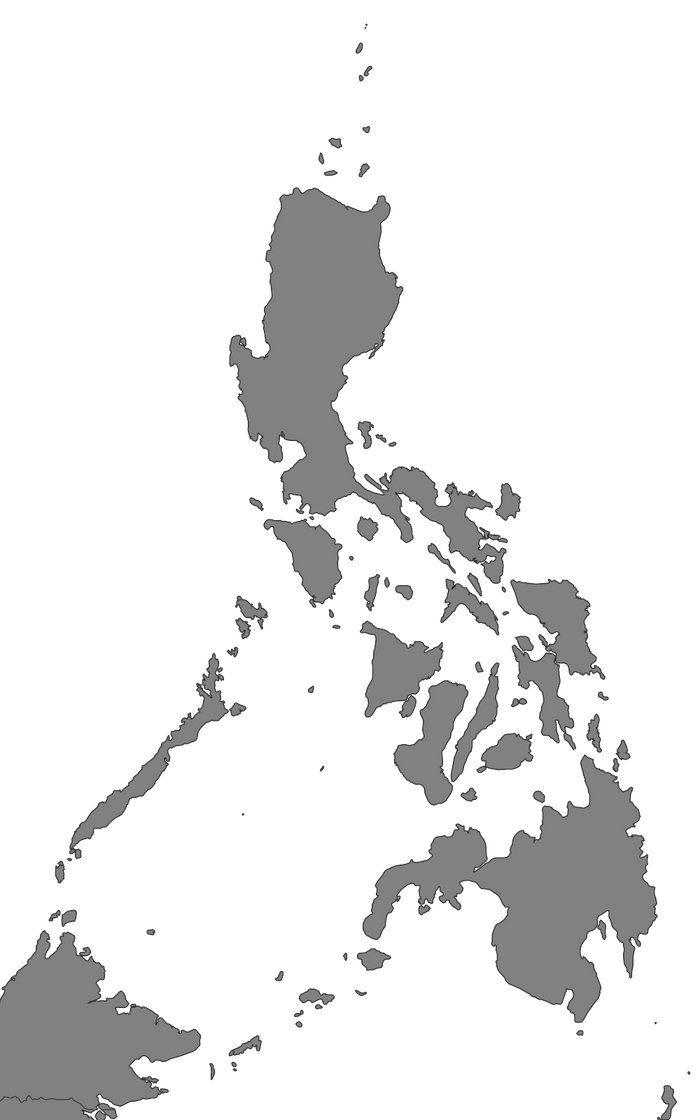
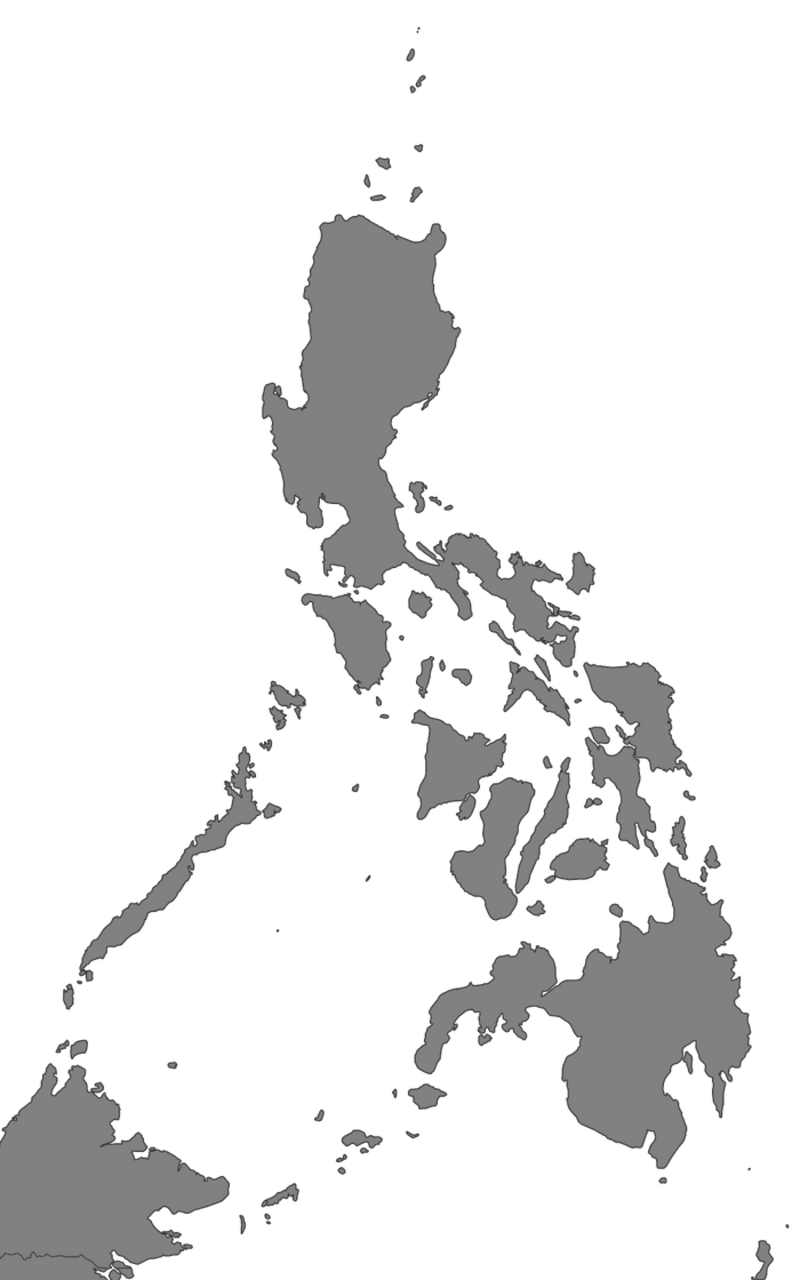
Add files via upload

diff --git a/styles.css b/styles.css
@@ -96,6 +96,7 @@
         left: -9999px;
         position: absolute;
     }
+
     .third-page {
         top: -9999px;
         /* Move off-screen */
@@ -172,39 +173,6 @@
         height: 11vw;
         margin-bottom: 10px;
     }
-
-    .topbar .search-container {
-        width: 20vw;
-        height: 2vw;
-        position: relative;
-        border: 0.15vw solid #fff;
-        margin-left: 15%;
-        border-radius: 360px;
-        background-color: transparent;
-        justify-content: start;
-        overflow: hidden;
-        display: flex;
-        align-items: center;
-
-    }
-
-    .topbar .search-container img {
-        margin-left: 2%;
-        width: 2vw;
-        height: 2vw;
-    }
-
-    .topbar .search-container input[type="text"] {
-        width: calc(100vw - 40px);
-        padding-left: 3%;
-        border: none;
-        outline: none;
-        background-color: transparent;
-        font-size: 1vw;
-        color: white;
-        border-radius: 20px;
-    }
-
 
     .first-page .roger {
         z-index: 1;
@@ -289,12 +257,14 @@
         color: #FFF;
     }
 
-    .first-page .signup {
+    .first-page .visitpage {
         animation: fade-in-left 1.5s ease;
+        font-family: 'Helvetica World', Arial, sans-serif;
         background-color: #FEC64D;
         position: absolute;
         right: 5%;
-        font-size: 1.2vw;
+        font-size: 1.8vw;
+        font-weight: bold;
         color: #FFF;
         width: 15vw;
         height: 5vw;
@@ -302,7 +272,7 @@
         bottom: 15%;
     }
 
-    .first-page .signup-p {
+    .first-page .visit-p {
         color: #FFF;
         font-family: 'Arsenal', sans-serif;
         position: absolute;
@@ -483,6 +453,7 @@
         font-family: 'Barlow Condensed', sans-serif;
         color: #F9A72C;
     }
+
     .third-page #title-view p {
         position: absolute;
         z-index: 2;
@@ -493,7 +464,7 @@
         color: #FFF;
     }
 
- 
+
     .third-page .esmeralda {
         z-index: 1;
         left: -28vw;
@@ -510,7 +481,8 @@
         width: 100%;
         height: 35vw;
     }
-        .third-page #title-view {
+
+    .third-page #title-view {
         z-index: 1;
         color: #FFF;
         position: relative;
@@ -522,6 +494,47 @@
         align-content: center;
         justify-content: center;
         overflow: hidden;
+    }
+
+    .third-page .map-view {
+        width: 39.5%;
+        height: 100%;
+        background-color: #242323;
+        background-image: url('./thirdpage/map.png');
+        background-size: 90%;
+        background-repeat: no-repeat;
+    }
+    .third-page .luzon {
+        width: 0%;
+        height: 0%;
+        position: relative;
+        background-image: url('./thirdpage/luzon.png');
+        background-size: 97%;
+        top: -25px;
+        left: -17px;
+        background-repeat: no-repeat;
+    }
+    .third-page .visayas {
+        width: 0%;
+        height: 0%;
+        position: relative;
+        background-image: url('./thirdpage/visayas.png');
+        background-size: 97%;
+        top: -25px;
+        left: -17px;
+        background-repeat: no-repeat;
+    }
+
+    .third-page .mindanao {
+        width: 100%;
+        height: 100%;
+        position: relative;
+        padding-bottom: 20px;
+        background-image: url('./thirdpage/mindanao.png');
+        background-size: 95%;
+        top: -10px;
+        left: -11px;
+        background-repeat: no-repeat;
     }
 
     .fourth-page {
@@ -543,11 +556,12 @@
         height: 100%;
         display: flex;
         overflow: hidden;
-        flex-direction:column;
+        flex-direction: column;
     }
 
     .fourth-page .yellow-line {
         width: .5%;
+        z-index: 1;
         height: 100%;
         background-image: url('./fourthpage/border-vertical.png');
     }
@@ -561,8 +575,8 @@
         left: 0;
         height: 100%;
         font-weight: bold;
-        background-size: 150%; 
-        background-color: rgba(254,198,77,0.2);
+        background-size: 150%;
+        background-color: rgba(254, 198, 77, 0.2);
     }
 
     .fourth-page .banner-top {
@@ -571,25 +585,26 @@
         position: relative;
         width: 100%;
         top: 0;
-        height: 25%;
+        height: 30%;
         align-content: center;
         justify-content: center;
         text-align: center;
         font-weight: bold;
         background-image: url('./fourthpage/gridlines.png');
-        background-size: 150%; 
+        background-size: 150%;
         background-color: #545454;
     }
 
-    .fourth-page .yellow-light {
+    .fourth-page .yellow-hline {
         width: 100%;
         position: relative;
         height: 1%;
-        background-color:rgba(254,198,77,0.8);
+        background-color: rgba(254, 198, 77, 0.8);
         background-repeat: no-repeat;
         background-size: 200%;
         background-image: url('./fourthpage/border-horizonal.svg');
     }
+
     .fourth-page .banner-top span {
         font-size: 4.5vw;
     }
@@ -598,8 +613,32 @@
         width: 100%;
         height: 100%;
         background-color: #545454;
-        background-image: url('./fourthpage/golden-animation.gif');
+        background-image: url('');
         background-repeat: no-repeat;
         background-size: cover;
+    }
+
+    .fourth-page .side-view {
+        width: 59.5%;
+        height: 100%;
+        background-image: url('./fourthpage//design-a.svg');
+        background-repeat: no-repeat;
+        background-size: cover;
+    }
+
+    .fourth-page .layla {
+        transform: scaleX(-1);
+        position: absolute;
+        height: 70vw;
+        left: 10vw;
+        bottom: -10vw;
+    }
+
+    .fourth-page .yellow-light {
+        z-index: 1;
+        bottom: 0;
+        position: absolute;
+        width: 100%;
+        height: 38vw;
     }
 }

diff --git a/index.html b/index.html
@@ -19,10 +19,6 @@
     <main>
         <img src="CHLogoY.png" alt="CHLogoY.png" class="left-logo">
         <nav class="topbar">
-            <div class="search-container">
-                <img src="search_icon.png" alt="Search Icon">
-                <input type="text" placeholder="">
-            </div>
         </nav>
         <section class="first-page">
             <img src="firstpage/image_top_roger.png" alt="firstpage/image_top_roger.png" class="roger">
@@ -30,7 +26,7 @@
                 <h2>WELCOME</h2>
                 <h4>TO CH PHILIPPINES</h4>
             </div>
-            <p class="signup-p">Sign up now for more news and updates related to event and tournament!</p>
+            <p class="visit-p">Visit us for more news and updates related to event and tournament!</p>
             <div class="yellow-tag">
                 <div class="yellow-line"></div>
                 <h2>
@@ -38,7 +34,7 @@
                     <span class="yellow">IT’S A COMMUNITY</span>
                 </h2>
             </div>
-            <button class="signup">SIGN UP</button>
+            <button class="visitpage">VISIT US</button>
         </section>
         <section class="second-page">
             <div id="title-view">
@@ -91,6 +87,14 @@
             </div>
             <div class="yellow-line">
             </div>
+            <div class="map-view">
+                <div class="luzon">
+                </div>
+                <div class="visayas">
+                </div>
+                <div class="mindanao">
+                </div>
+            </div>
         </section>
         <section class="fourth-page">
             <div id="title-view">
@@ -98,10 +102,14 @@
                     <span>JOIN OUR </span>
                     <span style="color: #FEC64D;">TEAM!</span>
                 </div>
-                <div class="yellow-light"></div>
+                <div class="yellow-hline"></div>
                 <div class="content"></div>
             </div>
             <div class="yellow-line">
+            </div>
+            <div class="side-view">
+                <img class="layla" src="./fourthpage/Layla.png" alt="">
+                <img class="yellow-light" src="./fourthpage/Yellow-Light.png" alt="">
             </div>
         </section>
         <script src="functions.js"></script>
